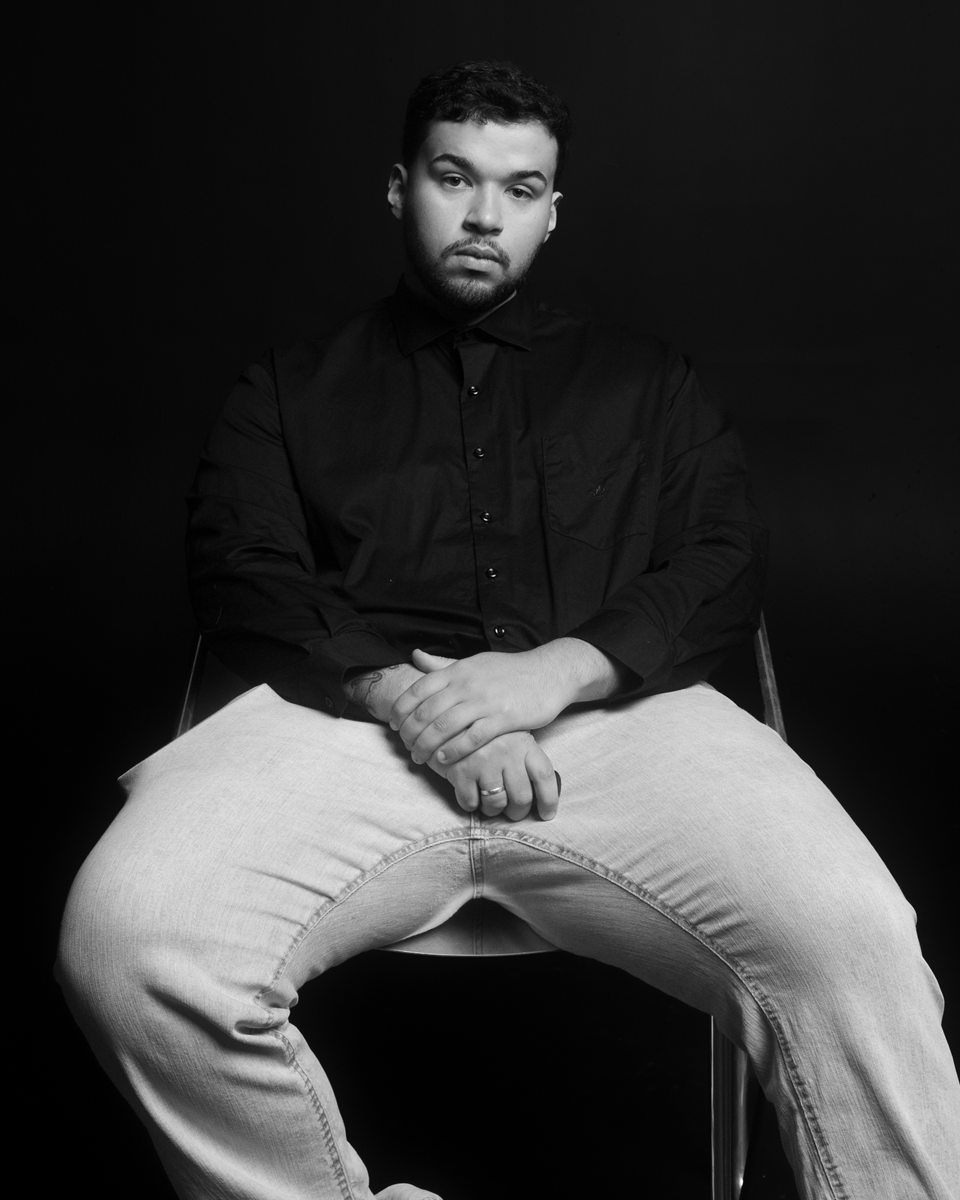
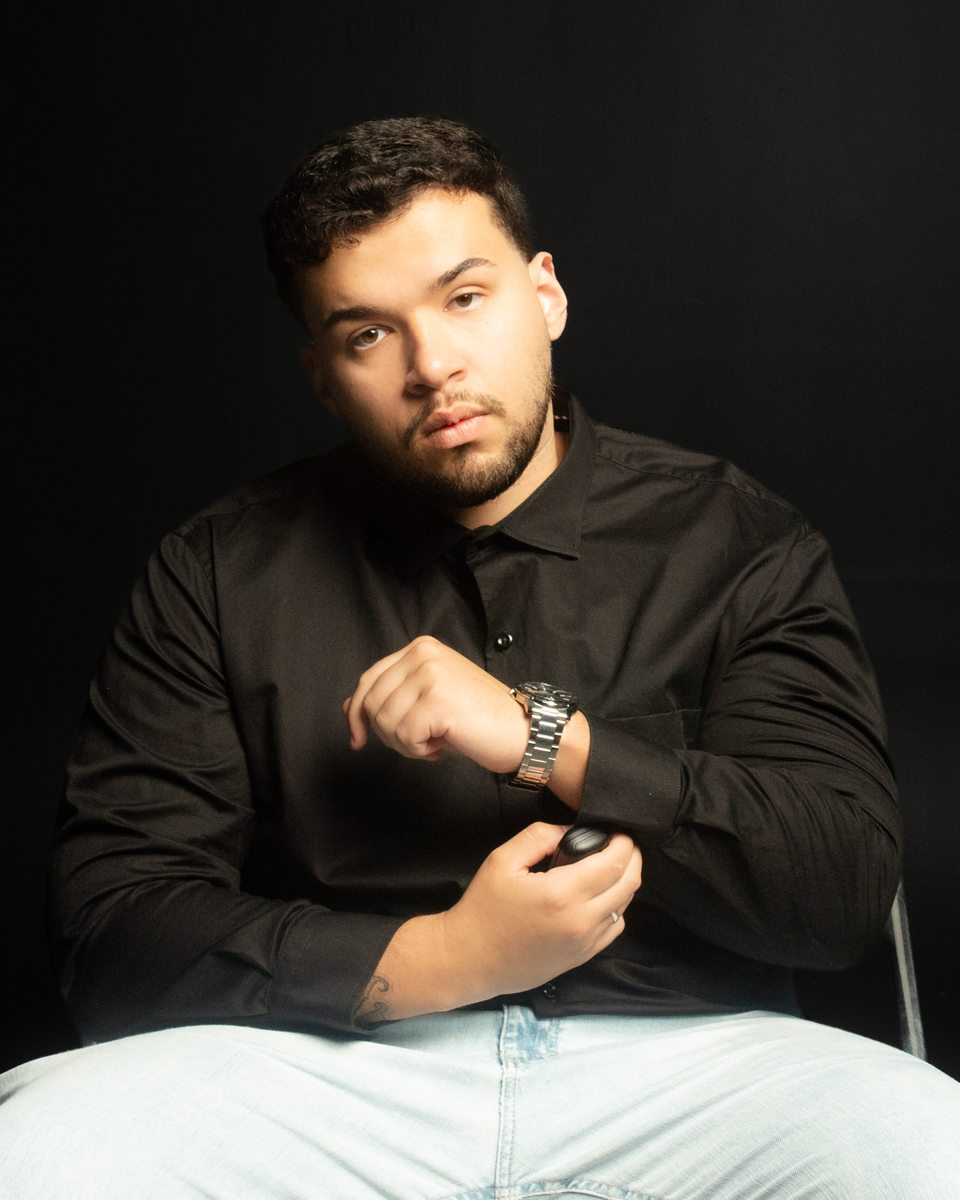
versão4: nova foto na página de competências
Troca o retrato em preto e branco de corpo inteiro por um retrato
colorido de camisa social, enquadrado da cabeça à cintura.

diff --git a/competencias.html b/competencias.html
@@ -46,7 +46,7 @@
         </div>
         <div class="hero__visual">
           <div class="foto" data-inclinar>
-            <img src="img/euller-competencias.jpg" alt="Retrato em preto e branco de Euller Augusto sentado, de camisa social" width="960" height="1200">
+            <img src="img/euller-competencias.jpg" alt="Retrato de Euller Augusto de camisa social preta, ajustando o punho" width="960" height="1200">
           </div>
         </div>
       </div>
